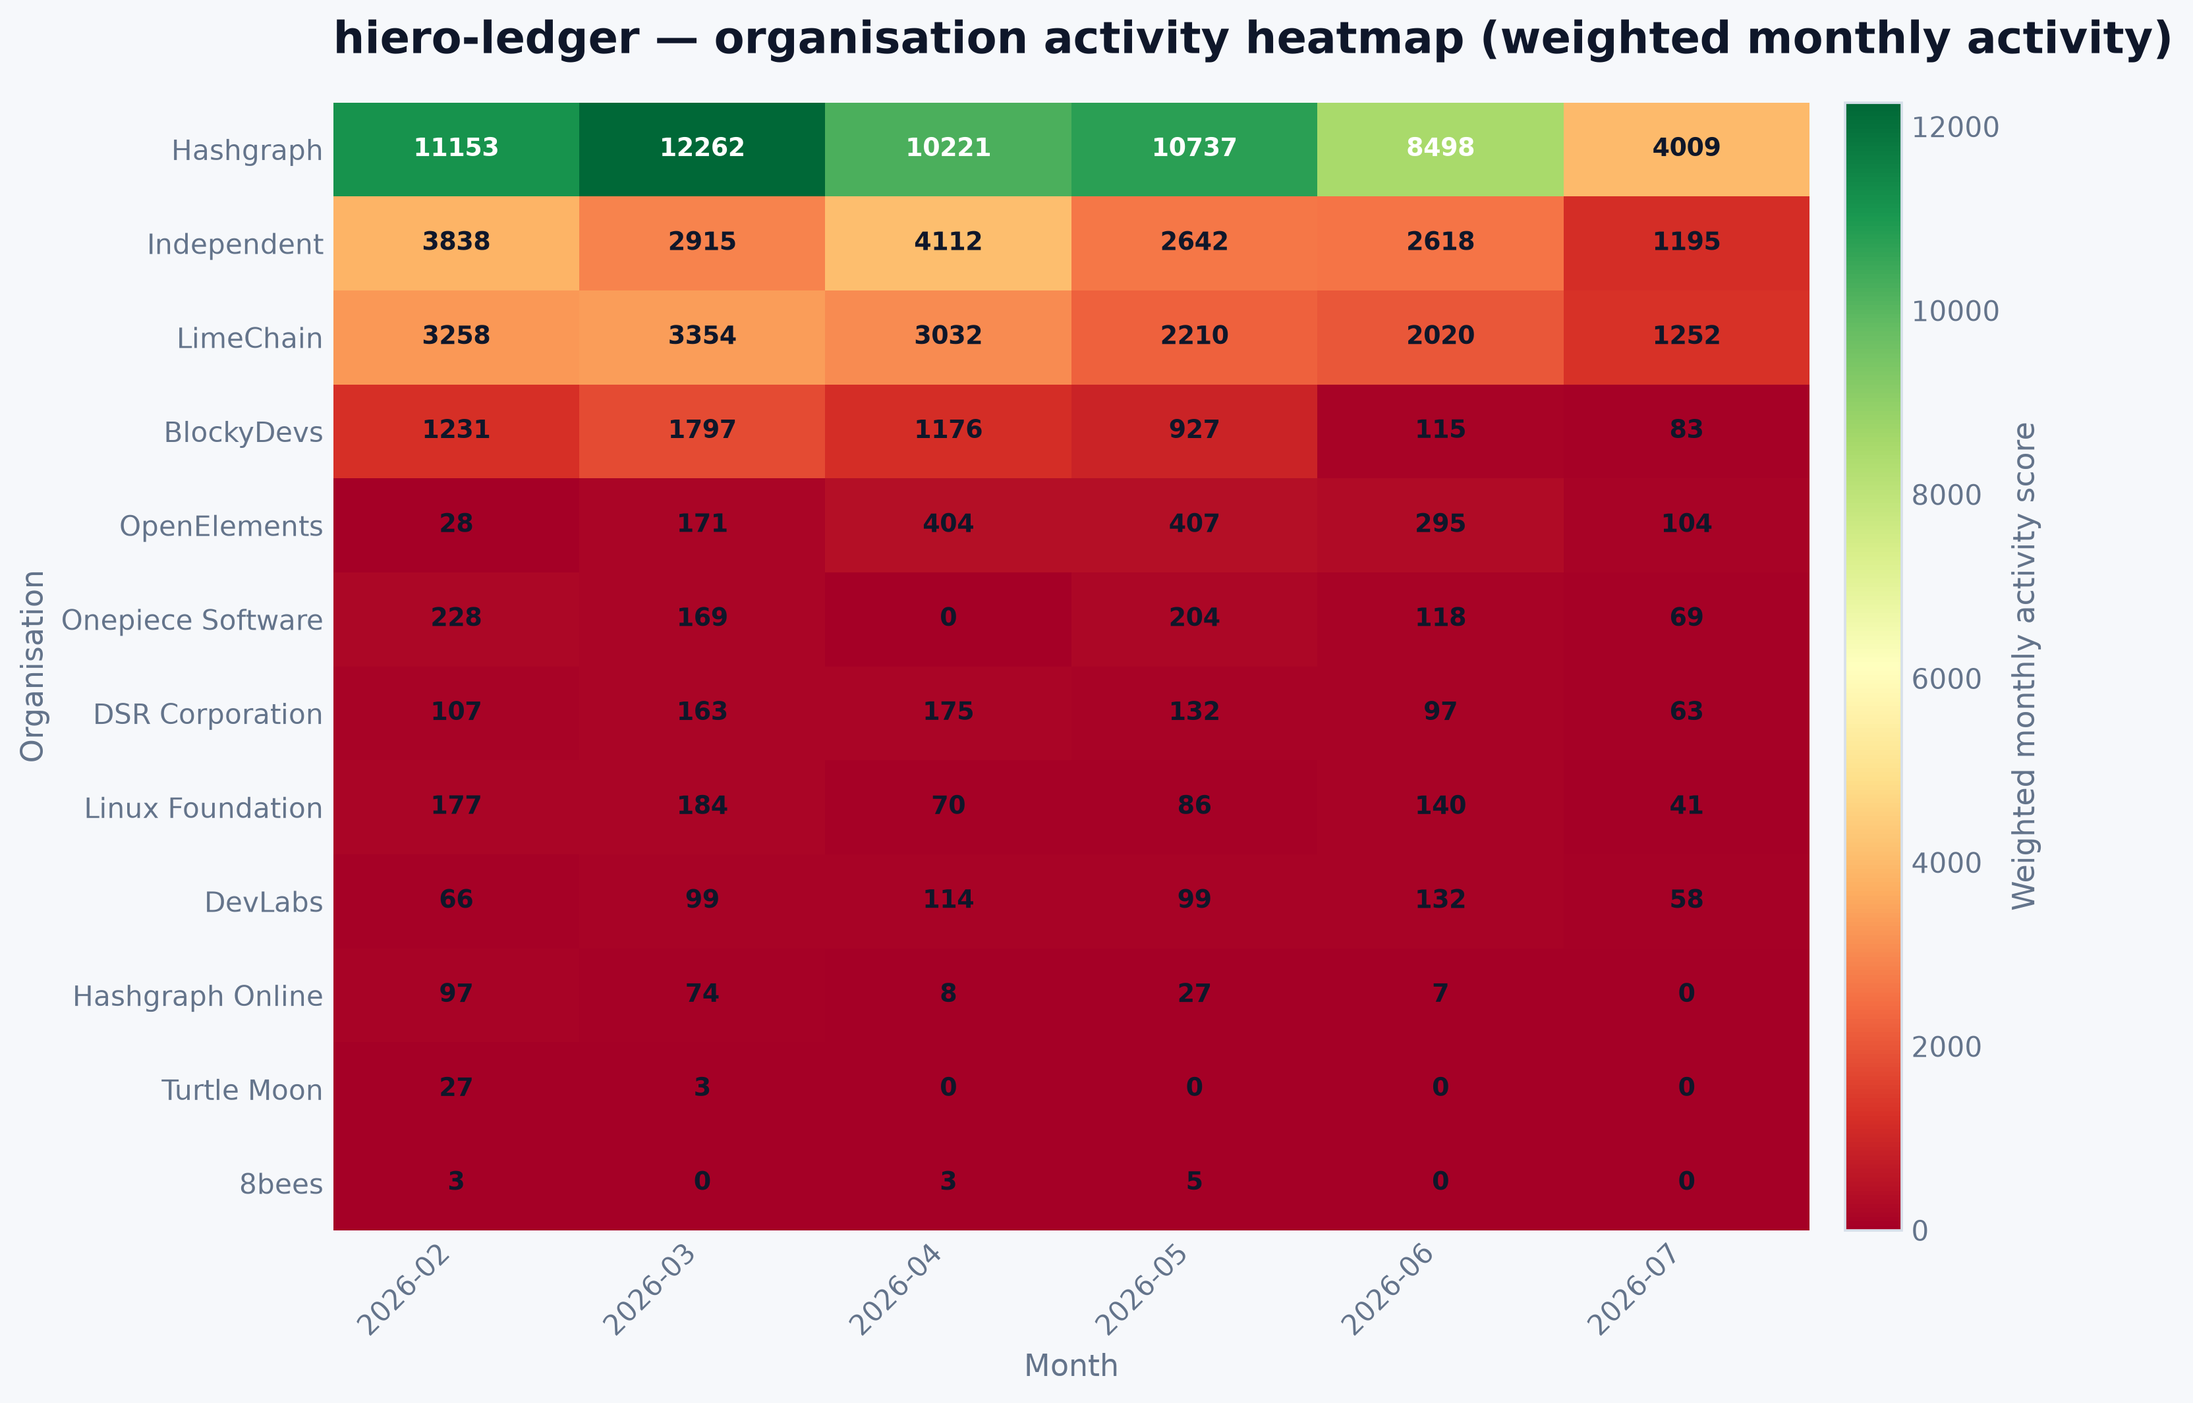
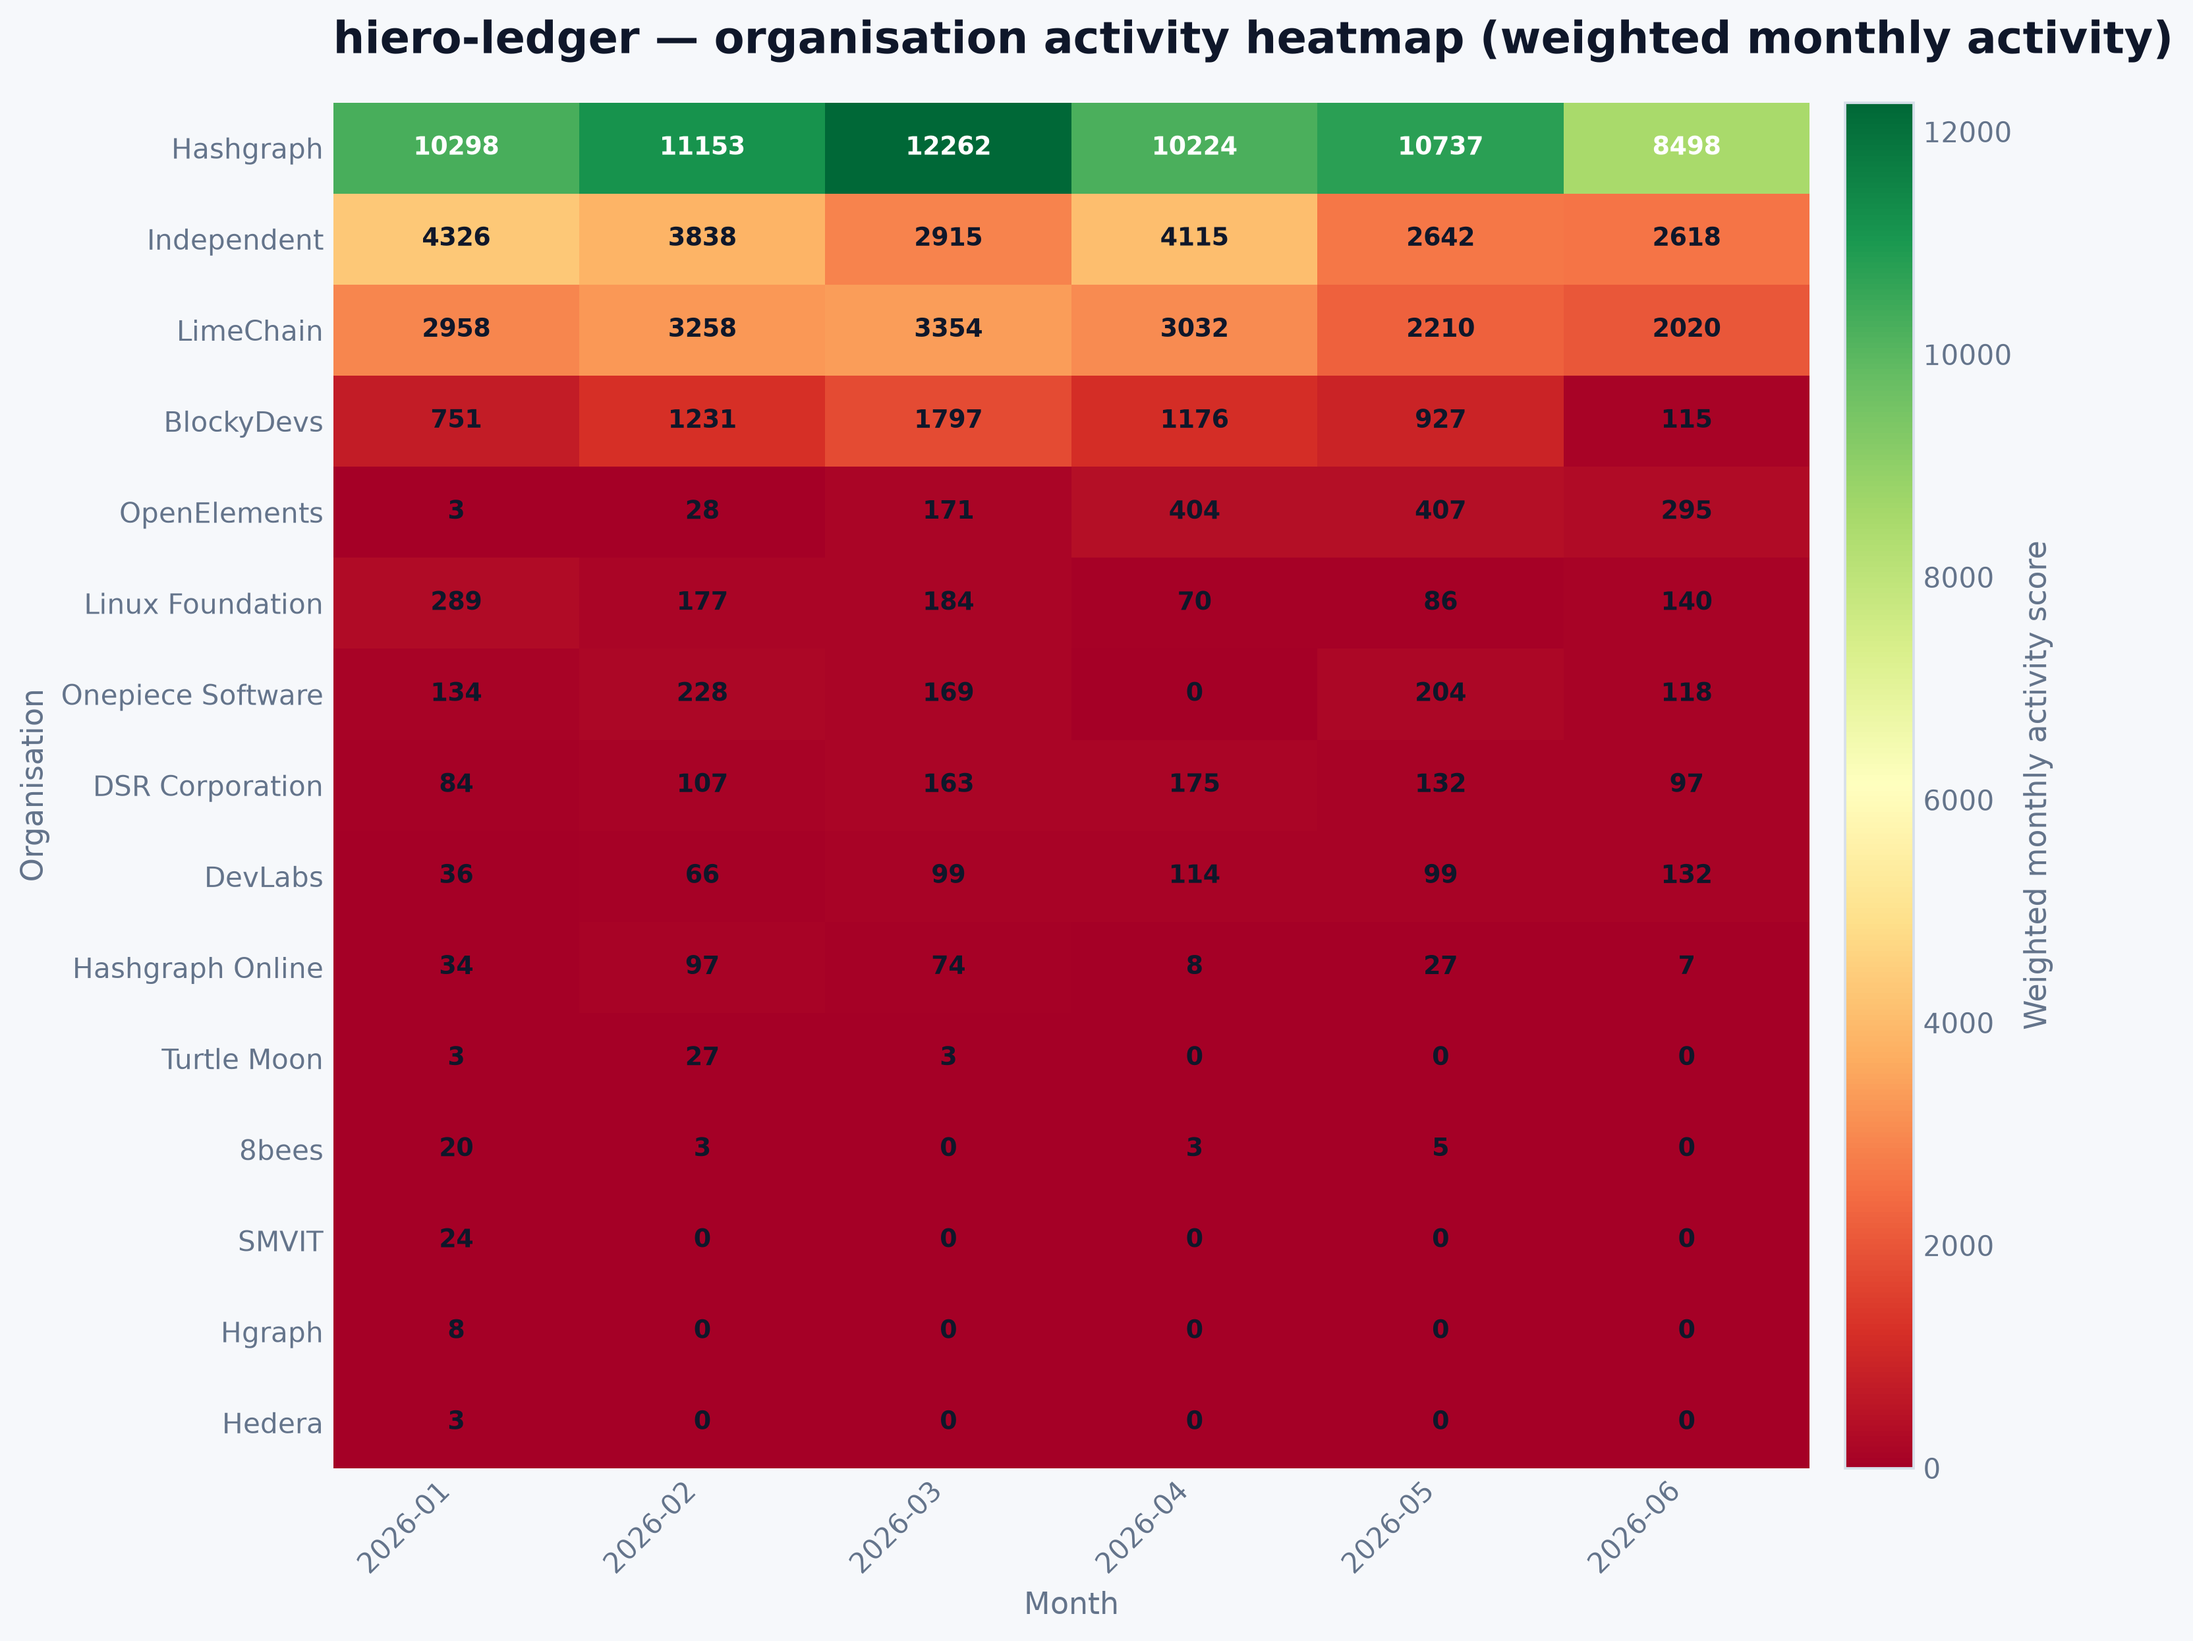
fix: adjust month range in contributor heatmap to exclude current month (#253)

diff --git a/tests/analysis/test_contributor_heatmap.py b/tests/analysis/test_contributor_heatmap.py
@@ -2,8 +2,6 @@
 
 from __future__ import annotations
 
-from datetime import UTC, datetime
-
 import pandas as pd
 
 from hiero_analytics.analysis.contributor_heatmap import (
@@ -20,11 +18,14 @@ from hiero_analytics.data_sources.models import ContributorActivityRecord
 def _ev(actor: str, activity_type: str, n: int, *, repo: str = "o/x") -> ContributorActivityRecord:
     """Build a contributor-activity record dated to now (inside the heatmap window)."""
     target_type = "issue" if activity_type == "authored_issue" else "pull_request"
+
+    last_month_timestamp = pd.Timestamp.now(tz="UTC") - pd.DateOffset(months=1)
+
     return ContributorActivityRecord(
         repo=repo,
         activity_type=activity_type,
         actor=actor,
-        occurred_at=datetime.now(UTC),
+        occurred_at=last_month_timestamp.to_pydatetime(),
         target_type=target_type,
         target_number=n,
     )

diff --git a/src/hiero_analytics/analysis/contributor_heatmap.py b/src/hiero_analytics/analysis/contributor_heatmap.py
@@ -53,7 +53,10 @@ def _month_key(value: datetime) -> str:
 def _recent_month_keys(months_back: int) -> list[str]:
     """Return the most recent month labels, oldest first."""
     current_month = pd.Period(pd.Timestamp.now(tz="UTC"), freq="M")
-    return [str(period) for period in pd.period_range(end=current_month, periods=months_back, freq="M")]
+    # Shift back by 1 month so the range ends on the last fully completed month
+    last_completed_month = current_month - 1
+
+    return [str(period) for period in pd.period_range(end=last_completed_month, periods=months_back, freq="M")]
 
 
 def _activity_action(activity_type: str) -> str | None:
